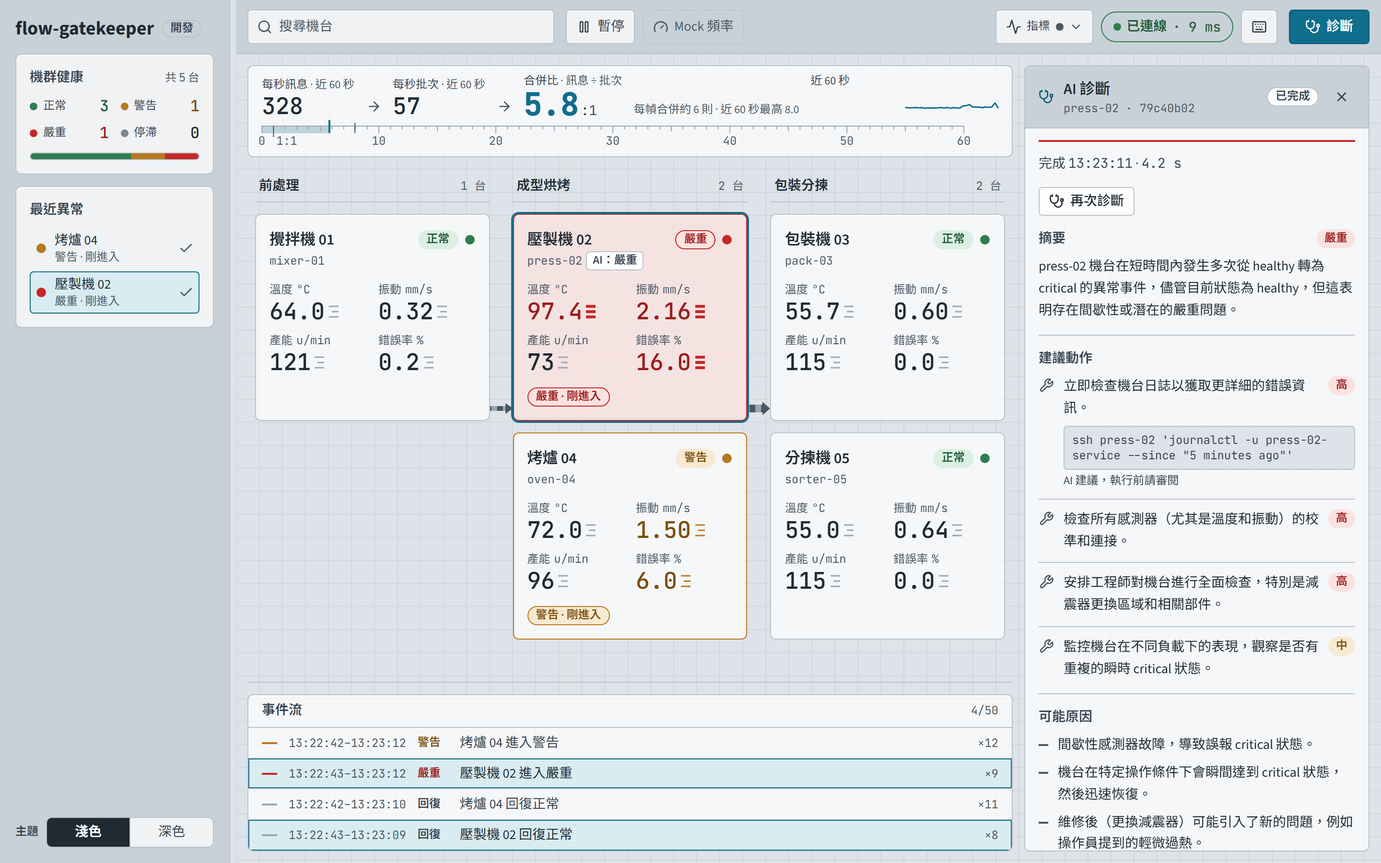
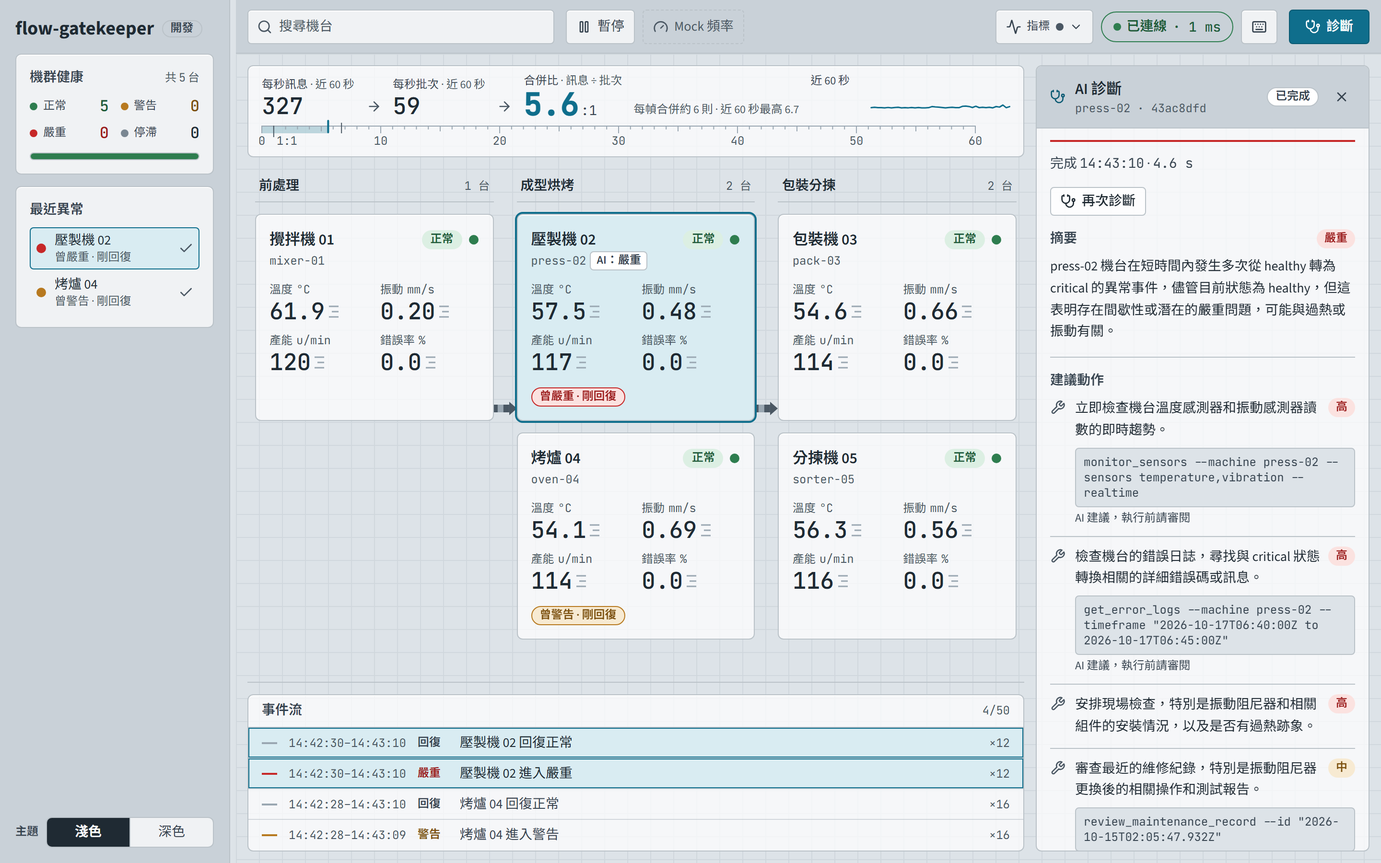
feat(013): [Phase 11: Polish] README 截圖再重拍（面板 348px）與劇本狀態穩定化；T074–T077 勾選
- screenshots.cjs：頁面內 MutationObserver 記錄卡片狀態切換、waitFresh／captureWhile 確保嚴重態截圖不落在 150 ms 底色過渡或尖峰結束後；eslint globals 補 performance／MutationObserver
- README：圖說改通用寫法（「AI：<嚴重度>」「快取 · 耗時」、骨架依解析順序填入）、面板 348px；14 張單輪重拍（AI 回繁中）
- tasks.md：T074／T075／T076／T077 勾選與結果；T070 累計紀錄

diff --git a/specs/013-ui-redesign/tasks.md b/specs/013-ui-redesign/tasks.md
@@ -205,7 +205,7 @@ pnpm monorepo：本 feature 只動 `apps/web/`（`src/shared/`、`src/domains/mo
 - [X] T067 [US7] 更新 `apps/web/PRODUCT.md`：Product Purpose（Diagnose／drawer／Cached／Retry 等 UI 術語改為繁中現況用語）、Capabilities and Constraints（token 值落在 `src/styles/theme.css`、`tailwind.config.ts` 只引用變數）、Positioning（背壓 strip 取代 TopBar 徽章）、Operating Context（側欄內容、Copilot 面板預設收合與偏好、三 stage 拓樸、手機機群健康摘要條、事件流合併與可點擊）、Accessibility 字級改為 12px，確認或移除所有 [推定] 標記
 - [X] T068 [US7] `/speckit-constitution`：第 II 條「視覺」條目改為「一律依 `apps/web/PRODUCT.md` 與 `apps/web/DESIGN.md`」，「開發工作流程與品質門檻」段對 design-spec 的引用改為「依 `apps/web/PRODUCT.md`『第一屏就是工作台』」，版本 1.5.0 → 1.6.0，兩處修訂皆記入 Sync Impact Report；依憲章 Governance 檢查 `.specify/templates` 相依模板有無 design-spec 引用並記入 Sync Impact Report；同步 `CLAUDE.md`「真實來源」段的視覺條目
 - [X] T069 [US7] `apps/web/design/design-spec.md` 檔頭加退役註記（FR-036 文字）；`git rm -r apps/web/design/refs`（含 `_sources/`）；全文搜尋 `design-spec.md` 與 `refs/` 的引用並逐處改寫或標示歷史，範圍包含 README、指南、CLAUDE.md、`apps/web/src` 內元件與測試的註解及 describe 名稱、`apps/web/index.html`、`apps/web/tailwind.config.ts`；`specs/` 與 `docs/*-research-review*.md` 屬歷史工件豁免
-- [X] T070 [US7] 完成 `apps/web/scripts/screenshots.cjs --readme`：依劇本產出 `docs/screenshots/` 12 張功能截圖（light）＋ `dark-theme.png`、`topology.png`；README 「功能逐項展示」圖說與術語改中文對照、22 秒 demo 劇本依新 UI 改寫（背壓 strip、串流骨架、快取耗時對比的位置，供 quickstart 場景 16 / SC-008）、設計連結指向 `apps/web/PRODUCT.md` 與 `apps/web/DESIGN.md`、「快速開始」加 `playwright-core` 與本機 Chromium 路徑說明、版本註記更新。Phase 10 實作裁決（2026-10-16）：失敗態以 `page.route` 把該分頁的 `POST /diagnoses` 攔成 503、斷線以 `page.routeWebSocket` 代理 `/ws` 切斷並拒絕重連（皆不關 api、不停 worker，回補 research R11 與指南 §15.6）；搜尋截圖查詢「p」（前處理欄空狀態）；fleet-health 含最近異常摘要列；三張裁切自 monitoring-states 全景同一瞬間；demo 影片不重錄、留待下一次 release 決定。第一版實拍分三輪拼湊（第 2、3 輪第一次診斷因 Mongo 脈絡查詢逾時 MaxTimeMSExpired 失敗，dark-theme 為失敗態）；2026-10-17 於 T073 四輪修正後單輪重拍 14 張（一次 `--readme` 14／14 寫入、Gemini 實際呼叫 1 次、其餘 2 次命中快取；dark-theme 恢復為與 copilot-cached 同一畫面），README 劇本表、§1／§3–§5／§7–§14 圖說與技術亮點 §8 依新畫面校正；劇本只補面板狀態 chip「未診斷」對照
+- [X] T070 [US7] 完成 `apps/web/scripts/screenshots.cjs --readme`：依劇本產出 `docs/screenshots/` 12 張功能截圖（light）＋ `dark-theme.png`、`topology.png`；README 「功能逐項展示」圖說與術語改中文對照、22 秒 demo 劇本依新 UI 改寫（背壓 strip、串流骨架、快取耗時對比的位置，供 quickstart 場景 16 / SC-008）、設計連結指向 `apps/web/PRODUCT.md` 與 `apps/web/DESIGN.md`、「快速開始」加 `playwright-core` 與本機 Chromium 路徑說明、版本註記更新。Phase 10 實作裁決（2026-10-16）：失敗態以 `page.route` 把該分頁的 `POST /diagnoses` 攔成 503、斷線以 `page.routeWebSocket` 代理 `/ws` 切斷並拒絕重連（皆不關 api、不停 worker，回補 research R11 與指南 §15.6）；搜尋截圖查詢「p」（前處理欄空狀態）；fleet-health 含最近異常摘要列；三張裁切自 monitoring-states 全景同一瞬間；demo 影片不重錄、留待下一次 release 決定。第一版實拍分三輪拼湊（第 2、3 輪第一次診斷因 Mongo 脈絡查詢逾時 MaxTimeMSExpired 失敗，dark-theme 為失敗態）；2026-10-17 於 T073 四輪修正後單輪重拍 14 張（一次 `--readme` 14／14 寫入、Gemini 實際呼叫 1 次、其餘 2 次命中快取；dark-theme 恢復為與 copilot-cached 同一畫面），README 劇本表、§1／§3–§5／§7–§14 圖說與技術亮點 §8 依新畫面校正；劇本只補面板狀態 chip「未診斷」對照；2026-10-17 面板 348px 後再重拍，README 圖說改為不依單輪數值的通用寫法；劇本加 CARD_SETTLE_MS（250ms，卡片 transition-colors 150ms＋餘裕）並以頁面內 data-state 切換紀錄判定截圖是否落在過渡中（嚴重尖峰畫面上僅約 450ms、2× 截圖約 300ms，Node 端固定 sleep 會錯過），所有「嚴重＋選取」卡皆為紅底；Gemini 累計 7 次（本日 7 輪 --readme 各 1 次，其餘皆命中快取；採用最後一輪，AI 回繁中）
 - [X] T071 [P] [US7] `docs/Flow-Gatekeeper-SDD-完整實作指南.md` §15.6 新增「013 UI 全面改版」段：視覺真實來源切換、雙主題、拓樸、背壓 strip（60 秒視窗比值）、文案語言、鍵盤；註明新增 `playwright-core` 推翻了 `MachineNodeCard.css.test.ts` 註解記載的「以 CSS cascade 測試取代 Playwright 截圖、不新增瀏覽器相依」取捨，並同步更新該測試檔註解。UI 術語中文對照（FR-038）只改**現況描述段**：指南 §15.6 新段與其中引用的現況說明；README 的術語由 T070 處理（「功能逐項展示」與「快速開始」）。歷史段落（既有 feature 章節、`docs/*-research-review*.md` 審查報告）依「回補不重寫歷史」豁免
 - [X] T072 [P] [US7] `CHANGELOG.md` `[Unreleased]`：使用者可見變更（視覺世界、light 預設／dark 切換、stage 拓樸、背壓 strip、串流骨架與快取耗時、異常 latch（確認後劃線）、事件合併與可點擊、面板預設收合與偏好、鍵盤快捷鍵、UI 文案繁中、README 截圖重拍）；契約小節註明「無變更」；相容性注意：localStorage 新 key、`playwright-core` devDependency
 - [X] T073 [US7] 重跑 `/impeccable critique`（雙 agent，目標 ≥ 30/40），快照存 `apps/web/.impeccable/critique/`；若未達標，依其 priority issues 修正後再跑一次（上限兩輪）。第一輪結果（2026-10-16，快照 `2026-10-16T09-37-54Z__src-app-vue.md`）：**28/40**（基準 20），P0 0、P1 4、P2 2；偵測器原始碼 0 筆、live URL 僅 `codex-grid-background`（契約允許的格線，誤報）與 `flat-type-hierarchy`（390 寬升 warning）。使用者裁決：第一輪修正納入 A 比值語意（三讀數同 60 秒視窗、最高水位短線、白話 tooltip）、B 完成態「再次診斷」鈕＋快取對比橫條、C 工具列快捷鍵可見入口、D 推擠式面板門檻 1024→1366（1024–1365 沿用 bottom-sheet，推翻 Phase 9 的 1024 裁決；第一版定 1280，交叉審查算出 1280–1365 推擠後拓樸仍 < 708px 單欄，使用者 2026-10-17 裁決改 1366）、E 事件 `firstTs` 區間與固定合併窗、F 手機標題階梯；**G 卡片迷你量筒留後**（改動大、需色弱驗證與全面重拍）。第一輪修正落地（2026-10-17，K1／K2／K3 三單位＋乾淨 Opus 交叉審查 medium 2／low 6 全修）：A 三讀數同 60 秒視窗＋`Graduation` 最高水位短線＋白話 aria-label；B `DiagnosisResultView` `actions` slot 放「再次診斷」次要鈕、快取態兩條同刻度橫條（只有一筆紀錄不畫）、閒置摘要補產能；C `TopBar` 快捷鍵說明鈕（`data-fg="shortcut-help-toggle"`）＋診斷鈕 `aria-describedby` 含「診斷進行中」；D 自訂 screen `desk` 1366；E `firstTs` 固定 60 秒窗、`data-fg="event-time"` 起訖；F `body` base 14px、`h1` Title 階、stage 標題 `<md` 16px（390／1280 的 `flat-type-hierarchy` 消失）；卡片診斷鈕 `aria-keyshortcuts="d"`。驗證：web 60 檔 1019 則、contracts diff 空、detect `[]`。第二輪結果（2026-10-17，快照 `2026-10-17T03-32-51Z__src-app-vue.md`）：**29/40**，偵測器原始碼 0、URL 只剩格線 advisory、overlay 三情境乾淨、10 份量測 0 violation；新 P1 三條（暫停狀態不可見、卡片 id 列在診斷 chip 出現時被截、<1366 閒置 sheet 重複數值並遮住選取卡）、P2 兩條（比值無就地說明與液柱、確認詞彙／pill 誤觸）。**使用者裁決（2026-10-17）：放寬「上限兩輪」，加做第三輪修正＋critique**，納入 P1 三條、P2 兩條、minor「閒置→未診斷」與「已完成」chip 中性色。第三輪修正落地（2026-10-17，L1／L2／L3＋乾淨 Opus 交叉審查 medium 3／low 3 全修）：L1 暫停橫幅「已暫停畫面更新 · 暫停於 HH:mm:ss」＋「恢復」鈕（`shared/lib/status-banner.ts` 純函式）、暫停鈕固定文字＋`aria-pressed`、背壓「已暫停」pill、標籤「合併比 · 訊息 ÷ 批次」、`Graduation` 實心液柱 `bg-accent/25`、走勢線改單秒合併比一條（暫停期間與恢復後 2 筆樣本標無效並排除於平均／最高水位／走勢線，上限穩健值離群釘頂）、刪 `ratePeak`；L2 卡片 id 列獨佔第二列（相對時間 ≥ 3 秒才顯示）、chip 改圖示＋嚴重度、異常 pill 不可互動（`latch-clear`→`latch-mark`）、rail「確認」＋Check 圖示、`aria-keyshortcuts="x"`、嚴重越界刻度全填實；L3 閒置 sheet 精簡至 144px、`max-w-xl`、`reveal-above-sheet` 捲動、非 modal 閒置 sheet（`aria-modal="false"`、觸控 focusLost 不接手）、`update:engaged` emit 驅動遮罩、「未診斷」、「已完成」chip 中性。已知限制：1366 卡寬 220 時「停滯徽章＋快取 chip」同現仍截 id。驗證：web 62 檔 1069 則、contracts diff 空、detect `[]`。第三輪結果（2026-10-17，快照 `2026-10-17T04-37-58Z__src-app-vue.md`）：**29/40**（趨勢 20→28→29→29），偵測器與 overlay 五情境乾淨；第二輪 P1／P2 全部確認落地；新 P1：< 1366 閒置 sheet 蓋住事件流、卡片三種時態共用「正常／警告／嚴重」；P2：選取嚴重卡被深青覆蓋、768 堆疊首屏 1.5 台、合併比無常駐白話。**使用者裁決（2026-10-17）：第四輪只做五項小改再 critique 一次**——sheet 併一列＋主區依 sheet 高度留白、chip／pill 時態用詞、選取態改外側 outline 保留狀態底色、合併比常駐白話一行＋刻度 1:1 錨點、用語統一（丟棄單位／連線中斷）；768 堆疊 2 欄留後續。第四輪修正落地（2026-10-17，M1／M2／M3＋交叉審查 high 1／medium 1／low 4 全修）：M1 閒置 sheet 單列約 51px、主區與 rail 依 sheet 實際高度留白（`--fg-bottom-reserve`、ResizeObserver、只在 `sheetCompact && !engaged` 採用量測值、modal 時凍結、desk+ 歸零）、peek 條「AI 診斷」改 sr-only、`:connection` 接線；M2 chip「AI：嚴重度」方角 tag 無圖示、`latchText()` 共用過去式「曾嚴重 · N 秒前回復」、選取態改外側 2px outline 保留狀態 border／bg（選取＋focus 6px 雙線）；M3 走勢線左側常駐白話行「每幀合併約 N 則 · 近 60 秒最高 X」（aria-hidden）、刻度 1:1 錨點、丟棄「N 則」統一、「已斷線／重新連線中」pill。驗證：web 62 檔 1087 則、contracts diff 空、detect `[]`。**使用者裁決（2026-10-17）：第四輪 critique 為最後一次評分、只留紀錄，之後不再追分**。**最終結果（快照 `2026-10-17T05-27-46Z__src-app-vue.md`）：29/40，趨勢 20→28→29→29→29；門檻 30 未達、以使用者裁決結案**。偵測器原始碼 0、URL 僅契約允許的格線 advisory、overlay 五情境乾淨（1024 閒置 sheet 51px／`aria-modal="false"`／無遮罩／主區留白 51px）、10 份量測 0 violation。四位獨立審查者的 P1 皆不重疊且各輪都已修掉；H10 四輪皆 2 分（概念說明只靠 tooltip）是分數停滯的結構性原因。**留後續 feature 的待辦**（已回補指南 §15.6）：768 高視窗卡片密度（第二排裁切）、AI 結果與現況脫鉤的交代、側欄確認鈕改文字鈕＋「已確認」tag、桌機兩顆「診斷」主鈕降級、分頁 title／favicon 告警、卡片三線刻度改迷你量筒（G）、768 堆疊 2 欄、處理步驟清單小標、零值計數中性色、`humanizeError` 英文後援
@@ -218,10 +218,10 @@ pnpm monorepo：本 feature 只動 `apps/web/`（`src/shared/`、`src/domains/mo
 
 **Purpose**: 清理、全棧檢查、驗收與 merge 準備。
 
-- [ ] T074 [P] 清理 `apps/web/.impeccable/`：只保留 `surfaces/`、`critique/`、`design.json`、`mocks/decision/assigned.html`（其餘草圖與 `payload.json` 刪除）；`.gitignore` 加 `apps/web/.impeccable/questions/` 與 `apps/web/.impeccable/hook.cache.json`
-- [ ] T075 [P] 刪除不再使用的程式碼與 token：`card-style.ts` 中的 inset ring；複跑 T009 的舊 token grep 確認仍為 0 命中（`text-2xs` 已於 T009 清理）；確認 `TopologyCanvas`、`BackpressureBadge` 已無殘留引用（檔案已於 T036／T041 刪除）；`pnpm --filter web lint` 零警告；**Phase 9 提醒**：`matchMedia` 的 `useMediaQuery` 寫法在 `TopBar.vue`、`StageTopology.vue`、`App.vue` 各有一份，收成 `shared/composables/useMediaQuery.ts`（含測試）；`ShortcutHelp.vue` 與 `AnomalyOverlay.vue` 的焦點陷阱重複，可抽 `useFocusTrap`（iOS Safari 點按鈕不給焦點時的還原後備一併處理）；`shadow-sheet` 用在由上而下的面板時陰影方向相反，考慮加 `shadow-panel` token
-- [ ] T076 全棧檢查：`pnpm check`（契約 lint、typecheck、lint、test）與 `pnpm build` 綠；`pnpm --filter web test` 含新增 ≥ 11 個純函式測試檔；`git diff develop -- packages/contracts asyncapi.yaml apps/api apps/worker` MUST 為空；grep `apps/web/dist/` 無 direction contract 字樣（`THESIS`、`OWN-WORLD`、`FIRST VIEWPORT`、`Lab Glass`）
-- [ ] T077（Phase 9 提醒：iOS Safari 覆蓋式搜尋在 `nextTick` 後 `focus()` 可能不跳出虛擬鍵盤，須實機或模擬器驗一次；已知限制：rail 拉到 420px＋推擠式面板展開＋1366 寬時工具列約 574px 會進 compact 形態，不在驗收 viewport 預設狀態內；T073 把推擠門檻提到 1366 後原「1024 寬工具列 214px」情境已不存在）依 [quickstart.md](./quickstart.md) 場景 1–16 逐項驗收並在 quickstart 加「驗收總表」記錄結果與日期（場景 4 須記錄 20 ms mock、60 秒的實測每秒提交率與顯示器更新率，供 SC-005）；SC-001～SC-014 逐條勾選於 spec.md
+- [X] T074 [P] 清理 `apps/web/.impeccable/`：只保留 `surfaces/`、`critique/`、`design.json`、`mocks/decision/assigned.html`（其餘草圖與 `payload.json` 刪除）；`.gitignore` 加 `apps/web/.impeccable/questions/` 與 `apps/web/.impeccable/hook.cache.json`。結果（2026-10-17）：git 追蹤的只有 `surfaces/src-app-vue.md`、`critique/*`（五份快照）、`design.json`、`mocks/decision/assigned.html` 與 `config.json`（detect 的 ignore 設定，目前三項皆空；保留供 `hooks ignore-value` 寫入）；其餘草圖與 `payload.json` 早於 Phase 1 清除；`questions/`、`hook.cache.json`、`review/` 皆在 `.gitignore`
+- [X] T075 [P] 刪除不再使用的程式碼與 token：`card-style.ts` 中的 inset ring；複跑 T009 的舊 token grep 確認仍為 0 命中（`text-2xs` 已於 T009 清理）；確認 `TopologyCanvas`、`BackpressureBadge` 已無殘留引用（檔案已於 T036／T041 刪除）；`pnpm --filter web lint` 零警告；**Phase 9 提醒**：`matchMedia` 的 `useMediaQuery` 寫法在 `TopBar.vue`、`StageTopology.vue`、`App.vue` 各有一份，收成 `shared/composables/useMediaQuery.ts`（含測試）；`ShortcutHelp.vue` 與 `AnomalyOverlay.vue` 的焦點陷阱重複，可抽 `useFocusTrap`（iOS Safari 點按鈕不給焦點時的還原後備一併處理）；`shadow-sheet` 用在由上而下的面板時陰影方向相反，考慮加 `shadow-panel` token。結果（2026-10-17）：舊 token grep 0 命中、inset ring 已無殘留、`TopologyCanvas`／`BackpressureBadge` src 引用 0（指南兩處現在式敘述已回補）；新增 `shared/composables/useMediaQuery.ts`（`BELOW_MD_QUERY`／`DESK_QUERY`／`BELOW_DESK_QUERY`／`REDUCED_MOTION_QUERY` 集中常數、`hasMatchMedia`／`matchesMedia`）與 `useFocusTrap.ts`（含 iOS 焦點還原 `fallback`；`AnomalyOverlay` 接摘要條，`ShortcutHelp` 裁決不接——桌機 `?` 開啟後 Esc 會把焦點跳到說明鈕）；`useModalSheet` 只共用選擇器與 `nextTrapTarget`，其非 modal／engage 邏輯不併入；新增 `shadow-panel`（`0 8px 24px ink/0.18`）給由上而下的覆蓋層；lint 0 警告；web 64 檔 1108 則
+- [X] T076 全棧檢查：`pnpm check`（契約 lint、typecheck、lint、test）與 `pnpm build` 綠；`pnpm --filter web test` 含新增 ≥ 11 個純函式測試檔；`git diff develop -- packages/contracts asyncapi.yaml apps/api apps/worker` MUST 為空；grep `apps/web/dist/` 無 direction contract 字樣（`THESIS`、`OWN-WORLD`、`FIRST VIEWPORT`、`Lab Glass`）。結果（2026-10-17）：`pnpm check` 全綠（shared 53／contracts 125／worker 219／api 266／web 1108 則）、`pnpm build` 綠、相對 develop 的 contracts／asyncapi／api／worker diff 0 行、分支新增 34 個測試檔、dist grep 0 命中（首次 check 時 worker `main.test.ts` 載入逾時為同時跑瀏覽器驗收的負載雜訊，單跑與複跑皆綠）
+- [X] T077（Phase 9 提醒：iOS Safari 覆蓋式搜尋在 `nextTick` 後 `focus()` 可能不跳出虛擬鍵盤，須實機或模擬器驗一次；已知限制：rail 拉到 420px＋推擠式面板展開＋1366 寬時工具列約 574px 會進 compact 形態，不在驗收 viewport 預設狀態內；T073 把推擠門檻提到 1366 後原「1024 寬工具列 214px」情境已不存在）依 [quickstart.md](./quickstart.md) 場景 1–16 逐項驗收並在 quickstart 加「驗收總表」記錄結果與日期（場景 4 須記錄 20 ms mock、60 秒的實測每秒提交率與顯示器更新率，供 SC-005）；SC-001～SC-014 逐條勾選於 spec.md。結果（2026-10-17）：16 場景通過 15、未通過 1（場景 14／SC-002 critique 29/40，依使用者裁決結案）、iOS 實機未驗（以 Playwright WebKit 模擬 iPhone 13 證明 focus() 有執行，虛擬鍵盤待實機）；場景 4：20 ms 批次 60 秒每秒提交 48–51 次（平均 49.9）、顯示器 60 Hz、無一秒超過更新率；場景 3 實測出完整版 Chrome 捲軸讓 1366 翻單欄，裁決推擠式面板 360→348px 後三欄維持；SC-013 例外清單補產品名與 px；Gemini 1 次
 - [ ] T078 更新 `specs/013-ui-redesign/spec.md` Status 為已完成、`CLAUDE.md` 管理區段改為「目前無進行中的 SDD feature；最近一次完成的是 013」；`/speckit-analyze` 複跑確認無跨工件矛盾；準備 `git merge --no-ff` 回 develop（push 前先與使用者確認）
 
 ---

diff --git a/README.md b/README.md
@@ -49,10 +49,10 @@
 | 0:00 | 打開首頁（第一屏就是工作台，AI 診斷面板預設收合） | **鏡頭 1：背壓 strip**——主區頂端、工具列正下方常駐，讀數依序為「每秒訊息 · 近 60 秒 → 每秒批次 · 近 60 秒 → 合併比 · 訊息 ÷ 批次」，三者同一個 60 秒視窗；下緣 0–60 比值刻度從 1:1 錨點起畫實心液柱，液位線標出目前合併比、蝕刻短線標近 60 秒最高水位（超過 60 釘在右端並標「>60」）；右側常駐一行白話「每幀合併約 N 則 · 近 60 秒最高 X」，旁邊是近 60 秒合併比走勢線 |
 | 0:04 | 看主區三 stage 拓樸 | 「前處理 → 成型烘烤 → 包裝分揀」三欄與欄間連線；壓製機 02（`press-02`）約每 12 秒一次嚴重尖峰，回到正常後卡片保留「曾嚴重 · N 秒前回復」標記 30 秒，側欄最近異常列與底部事件流（同類事件合併成「HH:mm:ss–HH:mm:ss · ×N」一列）同步記錄 |
 | 0:06 | 在工具列搜尋框（或按 `/`）輸入片段 | 只留命中的卡片，三欄寬度與順序不變，沒有命中的欄顯示空狀態 |
-| 0:07 | 清除搜尋，點選壓製機 02，按「診斷」 | 選取即自動展開右側 AI 診斷面板（360px，推擠主區；閒置時只有機台名、狀態、「診斷」鈕與一行說明，標頭 chip「未診斷」）；背壓 strip 仍在主區頂端 |
+| 0:07 | 清除搜尋，點選壓製機 02，按「診斷」 | 選取即自動展開右側 AI 診斷面板（348px，推擠主區；閒置時只有機台名、狀態、「診斷」鈕與一行說明，標頭 chip「未診斷」）；背壓 strip 仍在主區頂端 |
 | 0:08–0:15 | 等串流 | **鏡頭 2：串流骨架**——面板狀態為「進行中」，卡片 id 列同步顯示「診斷中 N%」；進度列與「中止診斷」下方的結果骨架依完成態順序排好「摘要與嚴重度 → 建議動作 → 可能原因 → 證據」，各欄解析到就逐格填入（先後依 LLM 輸出順序），還沒解析到的欄位顯示佔位；「原始串流」可展開看逐字文字 |
-| 0:16 | 完成 | 狀態轉為「已完成」（中性色 chip）：嚴重度色條與一行 meta「完成 HH:mm:ss · N.N s」，其下是次要鈕「再次診斷」；卡片 id 列出現方角 tag「AI：嚴重度」（本例為「AI：嚴重」）。此次**非快取**，真的呼叫了一次 Gemini |
-| 0:19–0:22 | 對同一台再診斷一次（面板的「再次診斷」、工具列「主要動作」的診斷鈕，或按 `d`） | **鏡頭 3：快取耗時對比**——結果整塊直接出現、不走逐字動畫，meta 以大字顯示「快取 · 耗時」（不到 1 秒以 ms 顯示），下方兩條同刻度耗時橫條「快取」對「上一次」（例如 397 ms 對 4.2 s），卡片 tag 加上「· 快取」（cache-aside + dedupe lock 的可視化證據） |
+| 0:16 | 完成 | 狀態轉為「已完成」（中性色 chip）：嚴重度色條與一行 meta「完成 HH:mm:ss · N.N s」，其下是次要鈕「再次診斷」；卡片 id 列出現方角 tag「AI：<嚴重度>」。此次**非快取**，真的呼叫了一次 Gemini |
+| 0:19–0:22 | 對同一台再診斷一次（面板的「再次診斷」、工具列「主要動作」的診斷鈕，或按 `d`） | **鏡頭 3：快取耗時對比**——結果整塊直接出現、不走逐字動畫，meta 以大字顯示「快取 · 耗時」（不到 1 秒以 ms 顯示），下方兩條同刻度耗時橫條「快取」對「上一次」（例如數百 ms 對數秒），卡片 tag 加上「· 快取」（cache-aside + dedupe lock 的可視化證據） |
 
 > 照劇本操作前先執行 `./scripts/demo-reset.ps1` 清掉 AI 快取，第一次診斷才看得到串流。快取簽章含該台**最近一筆 state**：第二次診斷時若剛好碰上尖峰（狀態與第一次不同），會再呼叫一次 LLM 而不是命中快取——等卡片回到正常再按即可。
 
@@ -144,7 +144,7 @@
 
 ### 3. 機台狀態：正常／警告／嚴重 + 最近異常標記
 
-每張卡片固定 footprint，狀態切換只改**狀態文字徽章**（**正常／警告／嚴重**，Healthy／Warning／Critical）、狀態燈、數值顏色與數值旁的 3 格小刻度（越過嚴重門檻時刻度全填實），**不造成 layout shift**（由截圖劇本 `--viewports` 的 rect 量測驗證）；狀態**不只靠顏色**（徽章帶文字、狀態燈帶 `aria-label`）。卡片顯示**溫度／振動／產能／錯誤率**（Temp／Vibration／Throughput／Errors；單位 °C、mm/s、u/min、% 維持原文）與更新時間：標頭第二列是 id 列（machine id、更新時間只在 ≥ 3 秒前或停滯時顯示「N 秒前」，否則留給螢幕閱讀器、停滯徽章、診斷 chip）。機台進入警告或嚴重時，卡片底部出現「**最近異常**」pill（「嚴重 · 剛進入」／「嚴重 · 進入 N 秒前」），回到正常後改為過去式「曾嚴重 · N 秒前回復」並保留 30 秒；pill 只是標記、不可點，確認在側欄最近異常列的確認鈕（Check 圖示）、聚焦卡片按 `x` 或手機覆蓋層進行，確認後改為劃線的「已確認」、期滿消失。id 列的診斷 chip 為方角 tag、不帶圖示，標示這是 AI 判定：進行中「診斷中 N%」、完成「AI：嚴重」（依嚴重度）、命中快取「AI：嚴重 · 快取」、失敗「AI 失敗」。下圖為壓製機 02（`press-02`）嚴重、烤爐 04（`oven-04`）警告同屏的瞬間。遙測由 mock producer 以決定性規律產生，內含週期性的警告與嚴重尖峰，確保 demo 可重播。
+每張卡片固定 footprint，狀態切換只改**狀態文字徽章**（**正常／警告／嚴重**，Healthy／Warning／Critical）、狀態燈、數值顏色與數值旁的 3 格小刻度（越過嚴重門檻時刻度全填實），**不造成 layout shift**（由截圖劇本 `--viewports` 的 rect 量測驗證）；狀態**不只靠顏色**（徽章帶文字、狀態燈帶 `aria-label`）。卡片顯示**溫度／振動／產能／錯誤率**（Temp／Vibration／Throughput／Errors；單位 °C、mm/s、u/min、% 維持原文）與更新時間：標頭第二列是 id 列（machine id、更新時間只在 ≥ 3 秒前或停滯時顯示「N 秒前」，否則留給螢幕閱讀器、停滯徽章、診斷 chip）。機台進入警告或嚴重時，卡片底部出現「**最近異常**」pill（「嚴重 · 剛進入」／「嚴重 · 進入 N 秒前」），回到正常後改為過去式「曾嚴重 · N 秒前回復」並保留 30 秒；pill 只是標記、不可點，確認在側欄最近異常列的確認鈕（Check 圖示）、聚焦卡片按 `x` 或手機覆蓋層進行，確認後改為劃線的「已確認」、期滿消失。id 列的診斷 chip 為方角 tag、不帶圖示，標示這是 AI 判定：進行中「診斷中 N%」、完成「AI：<嚴重度>」（如「AI：嚴重」）、命中快取「AI：<嚴重度> · 快取」、失敗「AI 失敗」。下圖為壓製機 02（`press-02`）嚴重、烤爐 04（`oven-04`）警告同屏的瞬間。遙測由 mock producer 以決定性規律產生，內含週期性的警告與嚴重尖峰，確保 demo 可重播。
 
 ![機台正常／警告／嚴重三態同屏，機群健康、最近異常摘要與事件流同步](docs/screenshots/monitoring-states.png)
 
@@ -168,7 +168,7 @@
 
 ### 7. 選取機台（驅動診斷對象）
 
-點選卡片、事件列項或最近異常摘要列（或用方向鍵在卡片間移焦後按 Enter）即設定選取（同時至多一台），以卡片外側的深青 outline 標示、保留卡片原本的狀態框與底色（嚴重卡被選取時仍是紅框紅底）；卡片 hover 或取得焦點時右下角另有診斷圖示鈕；這個選取就是「**診斷**」（Diagnose）的作用對象。沒有手動收合偏好時，選取即自動展開 **AI 診斷**面板（≥ 1366px 為右側 360px 的推擠式面板，1366px 以下為底部 bottom-sheet，見第 13 節）；閒置的面板只帶出機台名、狀態徽章、「診斷」按鈕與一行說明，不重複卡片上的遙測數值，標頭 chip 為「未診斷」。以面板收合鈕手動收合後，之後選台不再自動展開（偏好記在本機），觸發診斷或點展開把手才展開並清除偏好。下圖選取了正處於嚴重的壓製機 02（紅框紅底外加深青 outline），側欄與事件流中該台的列同步高亮。
+點選卡片、事件列項或最近異常摘要列（或用方向鍵在卡片間移焦後按 Enter）即設定選取（同時至多一台），以卡片外側的深青 outline 標示、保留卡片原本的狀態框與底色（嚴重卡被選取時仍是紅框紅底）；卡片 hover 或取得焦點時右下角另有診斷圖示鈕；這個選取就是「**診斷**」（Diagnose）的作用對象。沒有手動收合偏好時，選取即自動展開 **AI 診斷**面板（≥ 1366px 為右側 348px 的推擠式面板，1366px 以下為底部 bottom-sheet，見第 13 節）；閒置的面板只帶出機台名、狀態徽章、「診斷」按鈕與一行說明，不重複卡片上的遙測數值，標頭 chip 為「未診斷」。以面板收合鈕手動收合後，之後選台不再自動展開（偏好記在本機），觸發診斷或點展開把手才展開並清除偏好。下圖選取了正處於嚴重的壓製機 02（紅框紅底外加深青 outline），側欄與事件流中該台的列同步高亮。
 
 ![選取壓製機 02：卡片外側深青 outline，AI 診斷面板展開為閒置態「未診斷」與診斷按鈕](docs/screenshots/monitoring-selected.png)
 
@@ -182,19 +182,19 @@
 
 對選取機台按「**診斷**」（工具列主要動作、卡片上的診斷圖示、面板內按鈕與 `d` 走同一條路；只在連線就緒時可按——已收到本次連線的 `system/connected` 且已完成 `machine/subscribed`、未斷線、未收到 `system/unauthorized`，停用時以 tooltip 說明原因）：前端帶著目前的 `socketId`（即 WS `clientId`）呼叫 `POST /diagnoses`，面板**立即進入「進行中」**（Active），卡片 id 列同步顯示「診斷中 N%」，不等任何 AI 內容。串流中以容錯的漸進解析，把已解析的欄位填入**與完成態同順序的結果骨架**（摘要與嚴重度 → 建議動作 → 可能原因 → 證據；各欄解析到就填，先後依 LLM 輸出順序），還沒解析到的欄位顯示佔位、解析失敗不對操作者報錯；「原始串流」預設收合，可展開看逐字文字。骨架上方是進度與「中止診斷」，下方是任務 meta（佇列 `diagnosis`、嘗試 `N / 3`——換輪時看得出串流為何重來）與**處理步驟清單**（依 `job/status` 進度里程碑 0/20/40/60/80/100 由待辦 → 進行中 → 已完成推進）。面板標頭標示對應機台 id 與任務短碼。
 
-![AI 診斷進行中：進度 60% 與中止診斷，結果骨架已填入摘要、嚴重度與可能原因，建議動作填入中、證據為佔位](docs/screenshots/copilot-streaming.png)
+![AI 診斷進行中：進度與中止診斷，結果骨架各欄依解析到的順序填入，未到的欄位為佔位](docs/screenshots/copilot-streaming.png)
 
 ### 10. 結構化診斷結果
 
-`ai/done` 抵達後，面板原地渲染**通過 `DiagnosisResultSchema` 驗證**的結構化結果，順序固定為「**摘要**與嚴重度（正常／警告／嚴重）→ **建議動作**（含 `priority` 與可選的 `command`）→ **可能原因** → **證據**」（Summary／Suggested actions／Likely causes／Evidence）。證據預設展開前 2 筆，`source`（telemetry／errorlog／maintenance）相同且摘錄正規化後相同者合併為一列並標 `×N`。完成時標頭 chip 轉為中性色的「已完成」，以嚴重度色條與一行 meta「完成 HH:mm:ss · 耗時」收尾、不再用滿版進度條，meta 下方是次要鈕「**再次診斷**」，卡片 id 列出現「AI：嚴重度」tag；耗時由前端從送出請求量到收到完成事件（< 1000 ms 顯示整數 ms，否則顯示一位小數的秒）。原始串流收合在結果下方可回看；AI 回覆內容依 LLM 輸出原樣呈現。
+`ai/done` 抵達後，面板原地渲染**通過 `DiagnosisResultSchema` 驗證**的結構化結果，順序固定為「**摘要**與嚴重度（正常／警告／嚴重）→ **建議動作**（含 `priority` 與可選的 `command`）→ **可能原因** → **證據**」（Summary／Suggested actions／Likely causes／Evidence）。證據預設展開前 2 筆，`source`（telemetry／errorlog／maintenance）相同且摘錄正規化後相同者合併為一列並標 `×N`。完成時標頭 chip 轉為中性色的「已完成」，以嚴重度色條與一行 meta「完成 HH:mm:ss · 耗時」收尾、不再用滿版進度條，meta 下方是次要鈕「**再次診斷**」，卡片 id 列出現「AI：<嚴重度>」tag；耗時由前端從送出請求量到收到完成事件（< 1000 ms 顯示整數 ms，否則顯示一位小數的秒）。原始串流收合在結果下方可回看；AI 回覆內容依 LLM 輸出原樣呈現。
 
 ![診斷完成：嚴重度色條、完成 meta 與再次診斷鈕，摘要與建議動作在前，可能原因與證據接在下方](docs/screenshots/copilot-completed.png)
 
 ### 11. 快取命中與耗時對比（Cache before API）
 
-對同一機台、同一狀態簽章（含該台最近一筆 state、近期錯誤類型、prompt 版本與模型）再次診斷時，後端 cache-aside 直接回既有結果、**不再呼叫 LLM**：結果整塊直接呈現（不走逐字動畫），完成 meta 以大字顯示「**快取 · 耗時**」（Cached；不到 1 秒以 ms 顯示），下方是兩條同刻度的耗時橫條「快取」與「上一次」（該台上一次非快取的耗時；這個分頁只有一筆紀錄時不畫），卡片 tag 變為「AI：嚴重 · 快取」——把「第二次同樣的診斷為什麼秒回」量化在畫面上。下圖為快取 397 ms 對上一次 4.2 s。這是 003「Cache before API／dedupe lock」在前端的可視化證據；快取屬後端行為，前端只負責呈現。
+對同一機台、同一狀態簽章（含該台最近一筆 state、近期錯誤類型、prompt 版本與模型）再次診斷時，後端 cache-aside 直接回既有結果、**不再呼叫 LLM**：結果整塊直接呈現（不走逐字動畫），完成 meta 以大字顯示「**快取 · 耗時**」（Cached；不到 1 秒以 ms 顯示），下方是兩條同刻度的耗時橫條「快取」與「上一次」（該台上一次非快取的耗時；這個分頁只有一筆紀錄時不畫），卡片 tag 變為「AI：<嚴重度> · 快取」——把「第二次同樣的診斷為什麼秒回」量化在畫面上。下圖即兩次耗時的實測對比（數值每輪不同）。這是 003「Cache before API／dedupe lock」在前端的可視化證據；快取屬後端行為，前端只負責呈現。
 
-![快取命中：完成 meta 大字「快取 · 397 ms」，下方快取與上一次兩條同刻度耗時橫條](docs/screenshots/copilot-cached.png)
+![快取命中：完成 meta 大字「快取 · 耗時」，下方快取與上一次兩條同刻度耗時橫條](docs/screenshots/copilot-cached.png)
 
 ### 12. 失敗與重試
 
